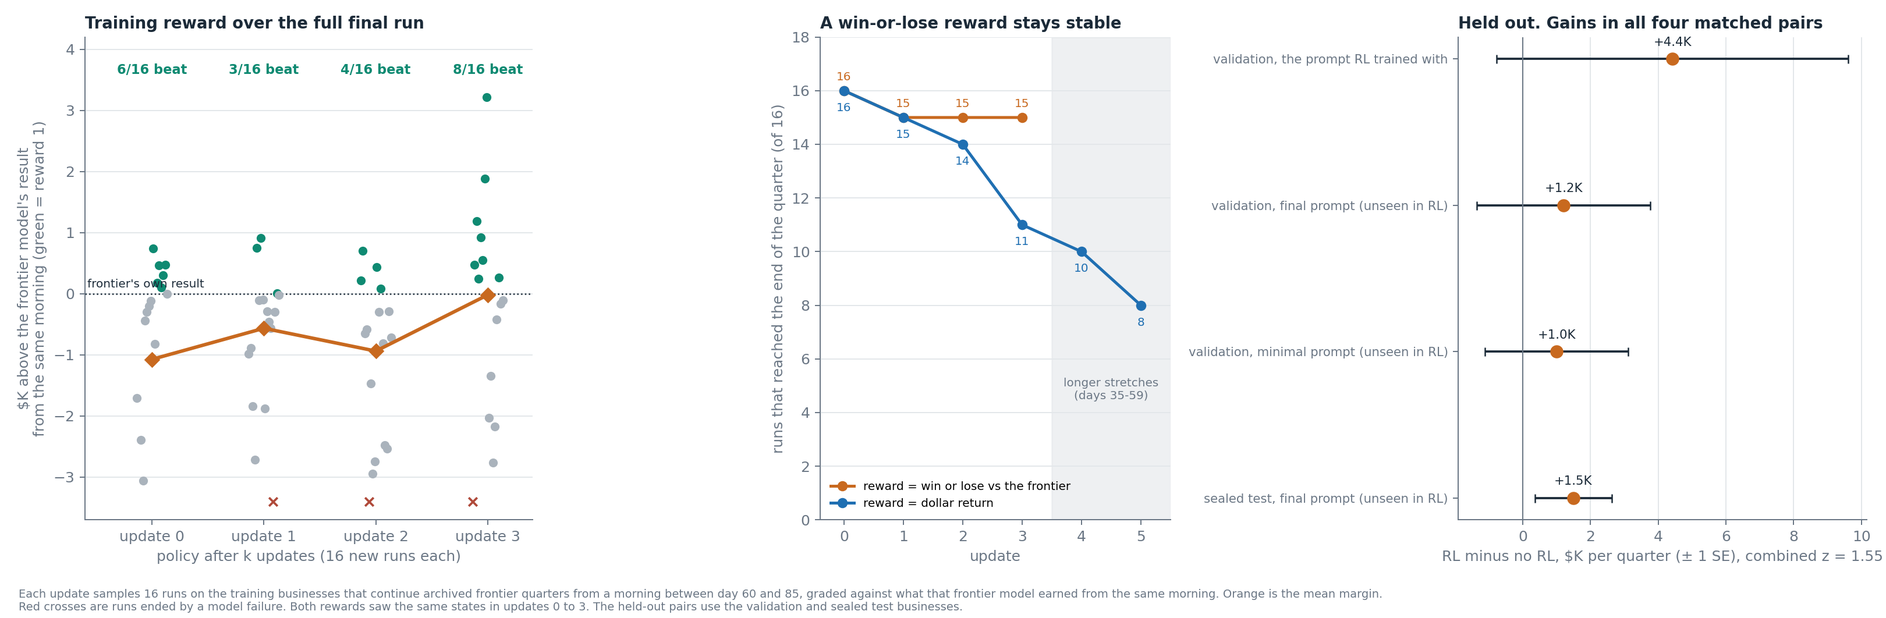
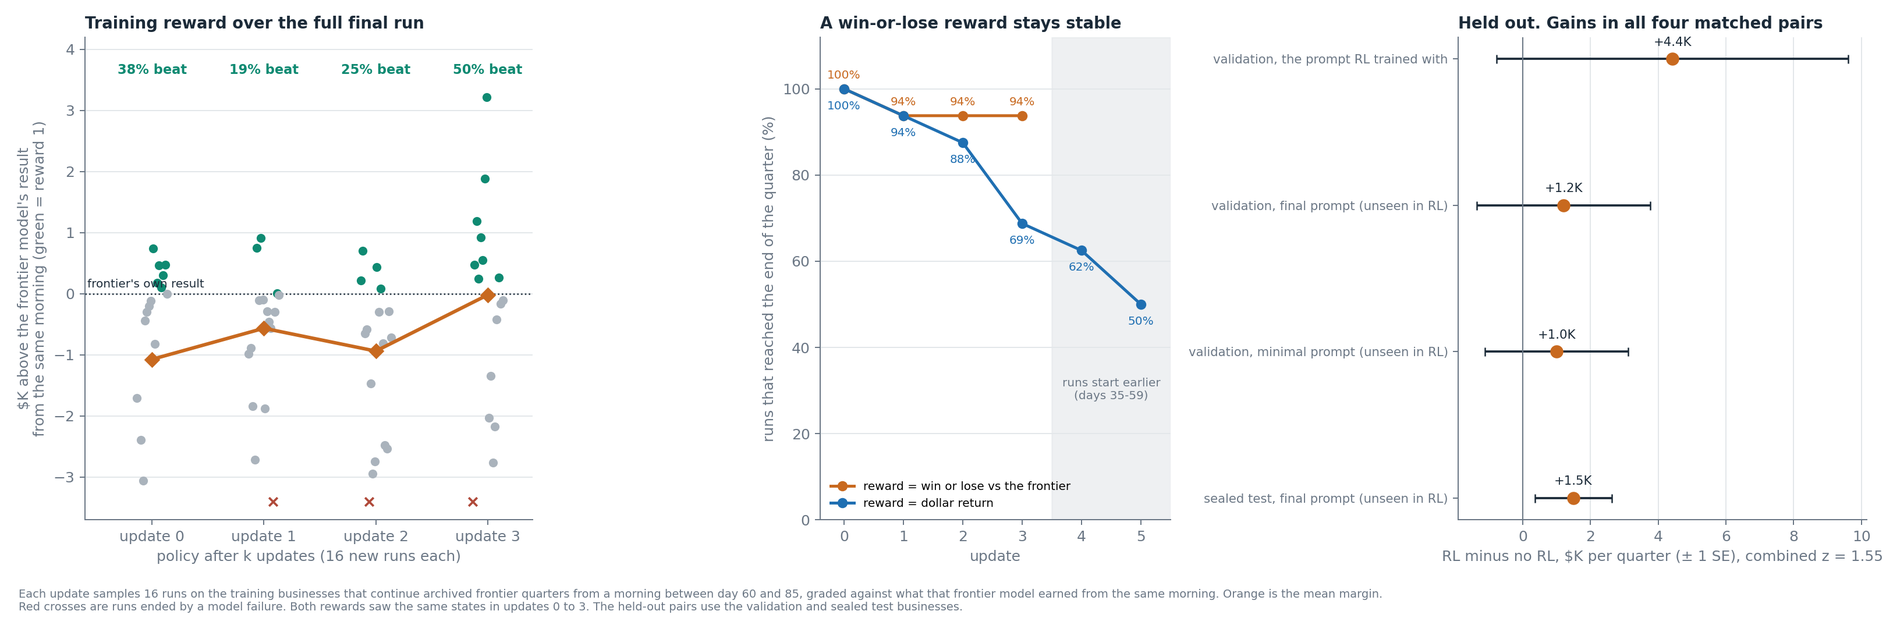
Rewrite the training report around findings, report percentages
The report now opens with a TL;DR of extrapolated findings and the research
question, gives each section a finding as its heading with verbatim quotes
from the final policy, and states shares as percentages. Figures switch to
percentage labels to match.

diff --git a/scripts/story_figures.py b/scripts/story_figures.py
@@ -272,9 +272,9 @@ def fig_result(test, val, lb_test, rule_test, lb_val, rule_val, open_w, dump):
     v_rows = {**lb_val, RL_ARM: val[RL_ARM], BASE_ARM: val[BASE_ARM]}
     ahead_t = standings(ax1, t_rows, rule_test, open_w, "")
     ahead_v = standings(ax2, v_rows, rule_val, open_w, "")
-    ax1.set_title(f"Sealed test business. Ahead of {ahead_t} of {len(lb_test)} leaderboard models", loc="left",
+    ax1.set_title(f"Sealed test business. Ahead of {100 * ahead_t / len(lb_test):.0f}% of leaderboard models", loc="left",
                   fontsize=11, color=INK, fontweight="bold")
-    ax2.set_title(f"Validation business. Ahead of {ahead_v} of {len(lb_val)}", loc="left", fontsize=11, color=INK,
+    ax2.set_title(f"Validation business. Ahead of {100 * ahead_v / len(lb_val):.0f}%", loc="left", fontsize=11, color=INK,
                   fontweight="bold")
     dump["test_rank"] = {"ahead_of": ahead_t, "of": len(lb_test), "fixed_rule": rule_test["primary"]}
     dump["val_rank"] = {"ahead_of": ahead_v, "of": len(lb_val), "fixed_rule": rule_val["primary"]}
@@ -418,7 +418,7 @@ def fig_rl(test, dump):
                 ax.scatter(x, -3.4, s=34, color=BAD, marker="x", zorder=3)
         means.append(st.mean(t["margin_vs_frontier_kusd"] for t in tm if t.get("valid")))
         won = sum(t.get("beat_frontier", 0) for t in tm)
-        ax.text(k, 3.6, f"{won:.0f}/{len(tm)} beat", ha="center", fontsize=9,
+        ax.text(k, 3.6, f"{100 * won / len(tm):.0f}% beat", ha="center", fontsize=9,
                 color=GOOD, fontweight="bold")
         dump["rl_reward"][k] = {"beat": won, "rollouts": len(tm), "mean_margin_kusd": means[-1],
                                 "valid": sum(t.get("valid", 0) for t in tm)}
@@ -427,25 +427,26 @@ def fig_rl(test, dump):
     ax.text(-0.58, 0.1, "frontier's own result", fontsize=8, color=INK)
     ax.set_xlim(-0.6, 3.4)
     ax.set_ylim(-3.7, 4.2)
-    ax.set_xticks(range(len(means)), [f"update {k}" for k in range(len(means))])
+    ax.set_xticks(range(len(means)), [f"update {k}" for k in range(len(means))])  # 16 new runs per update
     style(ax, "Training reward over the full final run", "policy after k updates (16 new runs each)",
           "$K above the frontier model's result\nfrom the same morning (green = reward 1)")
 
     # (b) the same states under a dollar reward
     ax = axes[1]
     for (lab, run), color in zip(CFG["rl_runs"], (OURS, BASE)):
-        done = [sum(r["trajectory_metrics"].get("valid", 0) for r in rows) for rows in rollout_summaries(run)]
+        done = [100 * sum(r["trajectory_metrics"].get("valid", 0) for r in rows) / len(rows)
+                for rows in rollout_summaries(run)]
         ax.plot(range(len(done)), done, marker="o", color=color, lw=2, label=f"reward = {lab}")
         for x, v in zip(range(len(done)), done):
-            ax.annotate(f"{v:.0f}", (x, v), textcoords="offset points", xytext=(0, 7 if color == OURS else -14),
+            ax.annotate(f"{v:.0f}%", (x, v), textcoords="offset points", xytext=(0, 7 if color == OURS else -14),
                         ha="center", fontsize=8, color=color)
         dump["rl_completed"][lab] = done
     ax.axvspan(3.5, 5.5, color=GRID, alpha=0.6, zorder=0)
-    ax.text(4.5, 4.5, "longer stretches\n(days 35-59)", ha="center", fontsize=8, color=MUTED)
-    ax.set_ylim(0, 18)
+    ax.text(4.5, 28, "runs start earlier\n(days 35-59)", ha="center", fontsize=8, color=MUTED)
+    ax.set_ylim(0, 112)
     ax.set_xlim(-0.4, 5.5)
     ax.legend(frameon=False, fontsize=8, loc="lower left")
-    style(ax, "A win-or-lose reward stays stable", "update", "runs that reached the end of the quarter (of 16)")
+    style(ax, "A win-or-lose reward stays stable", "update", "runs that reached the end of the quarter (%)")
 
     # (c) held-out gains
     ax = axes[2]

diff --git a/docs/training_report.md b/docs/training_report.md
@@ -1,98 +1,106 @@
-# Teaching an open 27B model to run a produce buying desk
+# Teaching an open model to run a business function
 
-SMB Bench training report, November 2026
+Learning from delayed consequences in SMB Bench
 
-The question behind this work is what experience and learning signal make an agent better at noticing, attributing and acting on the delayed consequences of its own decisions, in businesses it has never seen. SMB Bench tests this on a wholesaler's produce buying desk run for a 90-day quarter, where the cost of a decision often arrives weeks later and unlabelled.
+Running a business comes down to committing cash before demand is known and finding out weeks later whether the commitment was right. SMB Bench measures this on a wholesaler's produce buying desk run for a 90-day quarter, where sales hide the demand a stockout turned away and a shorted customer quietly orders less weeks later. We post-trained an open 27-billion-parameter model inside the original simulator and tested it on a business it never saw. It now sits in the middle of the frontier, and its transcripts show which parts of the frontier's failures a policy can fix and which still need learning.
 
-## Result
+Training report, November 2026
 
-Qwen3.8-27B, an open-weight model trained inside the original SMB Bench simulator, finishes ahead of 8 of the 16 models on the current leaderboard on a business it never saw during training or model selection. They include both open-weight models (DeepSeek V4.1 Flash and GLM 5.3), Grok 4.7, GPT-6 Luna, Claude Haiku 5.5 and all three Muse models. Its margin over Grok, GLM, GPT-6 Luna, Muse Wonder and Claude Haiku is $2,300 to $3,300 a quarter, about two standard errors or more. Its lead over Muse Spark, Muse Ember and DeepSeek is within noise, and the six models at the top lead it by more than two standard errors. On the validation business it is ahead of 9 of the 16. Every policy earns less on the sealed business than on validation (GPT-6 Astra makes $17,300 a quarter on one and $2,000 on the other), and ours sits in the middle of the board on both.
+## TL;DR
 
-The starting model, Qwen3.6-35B, lost $29,000 a quarter on validation. The final policy makes $2,400 there. Four reinforcement learning updates, about $600 of compute, added $1,500 a quarter on the sealed business, with a standard error of $1,100, and pointed the same way on validation.
+- **An open 27B model can learn a whole business function well enough to sit in the middle of the frontier.** On a sealed business, Qwen3.8-27B with our training finishes ahead of 50% of the 16 models on the current SMB Bench leaderboard, including both open-weight models (DeepSeek V4.1 Flash and GLM 5.3), Grok 4.7, GPT-6 Luna, Claude Haiku 5.5 and all three Muse models. On validation it is ahead of 56%, up from a $29,000 loss per quarter for the model we started from. The policy runs every product, supplier, order size, timing and cover decision for 90 days and carries what it learned to a business it has not seen. The skill is learnable at this scale from simulator experience, written practice and a few reinforcement learning updates.
+- **The frontier's named failures behave like policy failures, not knowledge failures.** The SMB Bench report found that frontier models under-buy, notice stockouts without acting, and short their customers. The trained policy buys the most produce of any policy we can measure, raises its next order after a stockout three times as much as GPT-6 Astra, and protects every customer account from the first morning in 100% of its quarters, against 10% of frontier quarters. It handles the delayed consequence by preventing it rather than detecting it, and gives up less profit than any leaderboard model when customers pull back or a supplier fails. A standing policy that is stated, carried and reinforced does what in-context adaptation rarely does.
+- **A win-or-lose signal against the frontier's own result is a usable learning signal, and the remaining gap is a timing problem.** Rewarding a run only for beating the frontier model's realized profit from the same morning stayed stable where a dollar reward drifted, and four updates (about $600 of compute) added $1,500 a quarter on the sealed business. What is left is a buffer and supplier habit whose value builds over the whole quarter. The policy describes the risk in its own notes and keeps the habit. We anticipate that reinforcement learning from earlier in the quarter, where those habits are set, should close much of the remaining $6,500 gap to GPT-6 Astra.
+
+## The question
+
+What experience and learning signal make an agent better at noticing, attributing and acting on the delayed consequences of its own decisions, in businesses it has never seen?
+
+Our hypothesis is that agents can learn this from verified experience in a simulator where every consequence is recorded. What should transfer is the relationship between evidence and action, which signal matters, what it implies for the next order, and when a standing commitment is worth its cost. A first attempt trained one skill, stockout-aware replenishment, as single ordering decisions scored against the benchmark's fixed buying rule. The decision reward kept rising while whole-quarter profit fell, and the gains stayed on the business they were trained on. Narrow decisions did not add up to a better buyer, so this work trains the whole desk and grades the whole quarter.
+
+## The trained policy sits in the middle of the frontier on an unseen business
+
+The sealed business is one of the leaderboard's six, played as a normal quarter, a customer quarter where shorted accounts order less, and a supplier quarter where the cheapest supplier also starts arriving late and short. The trained policy loses $4,500 a quarter there, a hard business where the benchmark's fixed buying rule breaks even and only three leaderboard models make money. Its margin over Grok, GLM, GPT-6 Luna, Muse Wonder and Claude Haiku is $2,300 to $3,300 a quarter, about two standard errors or more. Its lead over Muse Spark, Muse Ember and DeepSeek is within noise, and the six models at the top lead it by more than two standard errors. Every policy earns less here than on validation (GPT-6 Astra makes $17,300 a quarter on one and $2,000 on the other), and the trained policy sits in the middle of the board on both.
 
 ![Result](figures/fig1_result.png)
 
-## Findings from the final policy
+## It prevents the delayed consequence instead of detecting it
 
-The SMB Bench report found that frontier models under-buy, notice stockouts without acting on them, and short their restaurant and catering accounts. The final policy does the opposite on all three. We measured its test quarters and the nine frontier models we replayed on the same business with one script, and mined all 16,699 of its responses across 24 validation and test quarters. Quotes are the policy's own words, verbatim.
+A shorted restaurant or catering account keeps ordering, but less, and the loss shows up weeks later. The SMB Bench report describes learning from this as a three-step chain, seeing the orders fall, tying the fall to your own shortfalls and switching on shortfall cover, a standing instruction to fill any shortfall from the local market. Only 4% of leaderboard runs where accounts react completed that chain within three days.
 
-| SMB Bench report finding | Nine replayed frontier models, test business | Final policy |
-|---|---|---|
-| Every model under-buys | 12 to 22 tonnes a quarter, purchases cover 81% of true demand on average | 22.1 tonnes, covers 89% |
-| Models notice stockouts and barely act | next order after a four-hour stockout 6% above average for GPT-6 Astra | 18% above average |
-| Few protect their accounts in time | every account covered on day zero in 8 of 80 quarters | 24 of 24 quarters |
-| Changed quarters cost profit | all 16 leaderboard models lose $2,800 to $13,300 against their normal quarter | loses $1,400 |
-| The expert stocks for lead time plus a buffer | only Claude Fable 5.1 holds more than its lead time | holds 0.9 days against a 1.3-day lead time |
-| The expert consolidates on one supplier | 1.2 to 3.0 suppliers | 3.8 suppliers |
+The trained policy never lets the chain start. In 100% of its 24 validation and test quarters it switched on cover for every account on the first morning and kept 99.8% of account products covered to the end, against 56% of quarters for GPT-6 Astra and 10% for the frontier as a whole. Its notes name the delayed costs it is insuring against.
 
-**It infers the demand a stockout hides, then acts on it.** A sold-out shelf records lost sales as nothing. On 86 percent of test mornings the policy corrects for this before it orders.
-
-> "Let me estimate true demand from the sales data (d13, d14, with OOS correction)"
-
-After a four-hour stockout its next order is 18 percent above that product's average, three times GPT-6 Astra's 6 percent. After a week out of stock a quarter of the time or more, it adds 0.23 days of stock the next week, level with Astra and GLM 5.3 and behind only Claude Fable 5.1 on our measure. Its notes turn the estimate into a morning routine, and 83 percent of its final notebooks hold explicit checks, against 22 percent for Astra.
-
-> "2. New account lines due today/tomorrow -> size gaps vs on-hand + incoming."
-
-**It buys enough.** The report found every model bought 5 to 42 percent less than the fixed buying rule. The policy received 20.6 tonnes from suppliers and 1.5 tonnes from the local market per quarter, the most of the eleven policies we can measure on the test business, and its purchases covered 89 percent of true demand, the same as GPT-6 Astra. Its walk-in fill is still 74 percent against Astra's 80, a gap the thin buffer below explains.
-
-**It protects every account before the consequence appears.** Shorted accounts quietly order less weeks later. Of the 323 leaderboard runs in which this happens, the report found 12 that saw the fall, tied it to their own shortfalls and fixed it within three days. The policy never lets the chain start. In all 24 quarters it set shortfall cover, a standing instruction to fill any account shortfall from the local market, for every account on the first morning, and kept 99.8 percent of account products covered to the end. Its notes state the delayed consequence it is buying protection against, the 5 percent compensation, the accounts' smaller future orders and the end-of-quarter reserve, and weigh them against the local premium.
-
+> **Final policy, notes in a normal quarter**
 > "Keep ON; never toggle (comp + future order shrink + closing reserve >> local premium)."
 
-It still prices individual lines, and lets cover fill one when that loses less than buying would.
+> **Final policy, day 0 of a supplier quarter**
+> "Given cover is set for all accounts, even if potatoes fall short, cover would backstop (local potato price 97 vs account 77 → cover loses 20/lb, cheap!)."
 
-> "Skip gb (cover absorbs at 720, loss $24 vs buying loss ~$47)."
+The rule came from the training businesses and reached the policy as written instruction, and the policy applied it on two businesses it never saw. In the customer quarter its accounts kept ordering their full 15 tonnes, against 11.6 tonnes for the four strongest frontier models we replayed.
 
-GPT-6 Astra covered every account on day zero in 5 of 9 test quarters, and the nine replayed frontier models in 8 of 80. In the customer quarter the policy's accounts kept ordering their full 15 tonnes, against 11.6 tonnes for the four strongest replayed frontier models.
+## It reads the demand a stockout hides, and acts on it
 
-**It holds profit when customers or suppliers turn.** Against its own normal quarter it loses $1,400 on average across the customer and supplier quarters, the smallest loss of all 18 policies on the test business. GPT-6 Astra loses $4,900. Part of this is a low starting point, because always-on cover buys at the local market even when nothing goes wrong, and its normal quarter is weaker than every leaderboard model's. In absolute profit it is ahead of 11 of the 16 in the customer quarter and 9 of the 16 in the supplier quarter.
+A sold-out shelf records lost sales as nothing. On 86% of test mornings the policy corrects for this before it orders, and its notes turn the estimate into a routine.
 
-**Where it falls short, it notices and does not act.** The report's expert buyer stocks for the delivery lead time plus a buffer and consolidates orders on one supplier. The policy holds 0.9 days of stock against a 1.3-day lead time and splits orders over 3.8 suppliers, against 2.9 for Astra. So a late truck, or a day with none due, leaves an account order for cover to fill at the local market, at about 2.5 times the cheapest supplier quote. It buys there on 72 of 90 days and treats the cost as the price of loyalty.
+> **Final policy, day 15 of a customer quarter**
+> "Let me estimate true demand from the sales data (d13, d14, with OOS correction)"
 
+> **Final policy, notes in a supplier quarter**
+> "2. New account lines due today/tomorrow -> size gaps vs on-hand + incoming."
+
+After a four-hour stockout its next order is 18% above that product's average, against 6% for GPT-6 Astra. It received 22.1 tonnes a quarter, the most of the eleven policies we can measure on the sealed business, and its purchases covered 89% of true demand, the same as Astra and above the 81% frontier average. Where the report found frontier models noticing without acting, the policy acts.
+
+## It holds profit when customers or suppliers turn
+
+Against its own normal quarter, the policy loses $1,400 on average across the customer and supplier quarters, the smallest loss of all 18 policies on the sealed business. GPT-6 Astra loses $4,900. In absolute profit it is ahead of 69% of the leaderboard in the customer quarter and 56% in the supplier quarter. Part of the small loss is a low starting point. Always-on cover buys at the local market even when nothing goes wrong, so its normal quarter is weaker than any leaderboard model's. Insurance that costs money in a calm quarter pays when the world turns.
+
+## Its remaining gap is a habit it can describe but does not change
+
+The report's expert buyer stocks for the delivery lead time plus a buffer and consolidates orders on one supplier. The policy holds 0.9 days of stock against a 1.3-day lead time and splits orders over 3.8 suppliers, against 2.9 for GPT-6 Astra. So a late truck, or a day with none due, leaves an account order for cover to fill at the local market at about 2.5 times the cheapest supplier quote. It buys there on 80% of days and accepts the cost knowingly.
+
+> **Final policy, day 70 of a normal quarter**
 > "asp 1 is enough; let the cover handle asp line gaps (accept the premium, protect the account)."
 
-> "Local cover for these >> shelf -> expected ~$100-250/d cover losses; accept."
+In the supplier quarter it records the cheapest supplier's cancellations, then raises that supplier's share of its orders from 67% to 75% while the four strongest replayed frontier models cut theirs from 83% to 77%.
 
-In the supplier quarter it records the cheapest supplier's cancellations in its notes and keeps leaning on it, raising that supplier's share of its orders from 67 to 75 percent while the four strongest replayed frontier models cut theirs from 83 to 77 percent.
-
+> **Final policy, notes in a supplier quarter**
 > "sup_c d+1 NET21 (15-20% pre-cancel/case), sup_d d+2 NET7 reliable"
 
-These two habits cost it $7,700 a quarter at the local market and $1,100 in freight against GPT-6 Astra, more than its whole $6,500 gap to Astra, which its higher sales partly offset. The gap is widest in the normal quarter.
+> **Final policy, day 81 of the same quarter**
+> "Candidate sup_c (d82 arrival, cheap, but 1-day late risk + 15-20% cancellation)"
+
+These two habits cost $7,700 a quarter at the local market and $1,100 in freight against GPT-6 Astra, more than the whole $6,500 gap, which higher sales partly offset. This is the report's gap between noticing and acting, moved from stockouts to suppliers.
 
 ![Behaviors](figures/fig2_behaviors.png)
 
-## Method
+## A win-or-lose reward against the frontier is stable and transfers
 
-**Environment.** We used the original SMB Bench simulator and grader with the benchmark's tools, information and limits. Each morning the policy can query the business's records, read supplier quotes, place orders, set shortfall cover and edit its notes, which are all it carries to the next morning. Every business is played as a normal quarter, a customer quarter where shorted accounts order less, and a supplier quarter where the cheapest supplier also starts arriving late and short. We trained on four of the leaderboard's six businesses, chose between policies on business 5, and kept business 6 sealed until the final evaluation.
-
-**Task.** The policy runs the whole desk, every product, supplier, order size, timing and cover decision for 90 days, and is graded on the quarter's profit. An earlier attempt trained one skill, stockout-aware replenishment, as single decisions scored against the fixed buying rule. The decision reward kept rising while whole-quarter profit fell after the first 64 updates, and a model tuned on one business lost ground on the others. Narrow decisions did not add up to a better buyer.
-
-**Experience.** The useful unit of experience was a frontier state, not a frontier transcript. Fine-tuning Qwen3.6-35B on the 44 most profitable frontier transcripts from the training businesses, 179 million tokens, broke its tool calls. Restarted from frontier states at day 60, 71 percent of its runs ended on a malformed tool call and none beat the frontier. Instead we replay an archived frontier quarter to an exact morning between day 60 and 85, let the policy finish the quarter, and compare its profit with what that frontier model earned from the same morning. Because the engine is deterministic, every example carries its own fair bar.
-
-**Learning signal.** The reward is a single bit, 1 when the run beats the frontier model's result from the same morning. On the same states a reward in dollars drifted. Its responses grew from 3,800 to 7,100 tokens and the runs that reached the end of the quarter fell from 16 to 8 of 16. Under the win-or-lose reward, 15 or 16 of 16 runs finished at every update, the share that beat the frontier went from 6 of 16 at the first update to 8 of 16 at the last, and the mean margin against the frontier rose from minus $1,100 to even. Each update draws new states, so the training curve is noisy and the held-out comparisons carry the evidence. RL raised profit in all four matched comparisons, by $1,000 to $4,400 a quarter, including on the sealed business and under prompts it was not trained with (combined one-sided p of about 0.06, a rough guide because three of the comparisons share the validation business).
+Each training example replays an archived frontier quarter to an exact morning between day 60 and day 85, lets the policy finish the quarter, and compares its profit with what that frontier model earned from the same morning. The engine is deterministic, so every example carries its own fair bar, and the reward is a single bit for beating it. On the same states, a reward in dollars drifted. Responses grew from 3,800 to 7,100 tokens and the share of runs that reached the end of the quarter fell from 100% to 50%. Under the win-or-lose reward 94 to 100% of runs finished at every update, the share beating the frontier went from 38% to 50%, and the mean margin against the frontier rose from minus $1,100 to even. Each update draws new states, so the training curve is noisy. The held-out comparisons carry the evidence, and RL raised profit in all four of them, by $1,000 to $4,400 a quarter, including on the sealed business and under prompts it was not trained with.
 
 ![Reward over the full final RL run](figures/fig3_rl.png)
 
-**Optimizer and model.** The policy is Qwen3.8-27B with a rank-32 LoRA adapter, trained on Tinker, Thinking Machines' hosted training service. Each of the four updates used four start states with four runs each, a learning rate of 3e-5, the CISPO loss, and MaxRL advantages, which divide each group's centered win-or-lose reward by the group's win rate. Evaluation runs with thinking on, temperature 1, top-p 0.95, top-k 20 and a reasoning cap of 57,344 tokens. The backbone mattered most. From identical frontier states, Qwen3.8-27B earned $1,200 to $2,100 more per run than Qwen3.6-35B.
+## What came from the base model, the environment and the weights
 
-**System prompt.** The final prompt keeps the benchmark's task, tools and scoring and adds three kinds of guidance. It describes the practices the report attributes to its expert buyer, states run-safety rules (a cap on calls per response, the run-ending limits, a check on lot size), and adds two rules read off the training businesses' records. Keep cover on for every account from day zero, and size each order to what sells before markdown. Cover is not optional. Making it conditional, to cut the local-market spending, brought account shortfalls back from 8 kg to 456 kg and cost $5,700 a quarter on validation.
+The validation climb of $31,400 a quarter splits by source. Moving from Qwen3.6-35B to Qwen3.8-27B is worth $20,400. Written practice from the SMB Bench report and run-safety rules add $7,600. Two rules read off the training businesses' records add $2,200. Reinforcement learning in the simulator adds $1,200 on validation and $1,500 on the sealed business. Each step was measured on top of the one before.
 
-## What came from where
+**The environment holds rules that transfer.** The two rules we read off the training businesses, cover every account from day zero and size each order to what sells before markdown, produced the account protection and lot sizing that frontier models get wrong, on two businesses the policy never saw. They reached the policy as written instructions. The signal is in the environment, and whether an agent can extract it unaided is the open part of the question.
 
-Figure 4 splits the $31,400 validation climb by source. Moving from Qwen3.6-35B to Qwen3.8-27B is worth $20,400. The report's practices and the run-safety rules add $7,600. The two rules read off the training businesses add $2,200. Reinforcement learning in the simulator adds $1,200 on validation and $1,500 on the sealed business. Each step was measured on top of the one before, so the split depends on that order.
+**The weights learned to commit.** Against the same model and prompt without reinforcement learning, on the sealed business, the trained policy bought more from suppliers and $1,600 less at the local market, filled 74% of walk-in demand against 70%, almost never switched cover off, and covered every account on day zero in 100% of quarters against 83%. It reacted harder to stockout weeks on both businesses, and quarters lost by more than $10,000 fell from 25% to 8%. It did not change the buffer or the number of suppliers. Four late-quarter updates made the policy hold its plan. They did not teach it a habit whose payoff starts in the first weeks.
 
-**What the environment taught.** The simulator's training businesses hold rules that transfer. We read two of them off the records of archived frontier runs, wrote them into the prompt, and they produced the account protection and lot sizing that frontier models get wrong, on two businesses the policy never saw. The rules reached the policy as written instructions, so this shows the signal is in the environment. Whether an agent can extract it unaided is the open part of the question.
-
-**What training put in the weights.** Against the same model and prompt without reinforcement learning, on the sealed business, RL made the policy commit to its plan. It bought 0.8 tonnes more from suppliers and $1,600 less at the local market, filled 74 percent of walk-in demand against 70, ended the quarter with more stock on hand, almost never switched cover off, and covered every account on day zero in 12 of 12 quarters against 10 of 12. It reacted harder to stockout weeks on both businesses (combined one-sided p of about 0.07). It turned three disaster quarters below a $10,000 loss into one, and on validation its whole lead comes from one quarter the untrained model ended early after ten rejected orders in a row. It did not change tool errors, tokens, the stock buffer or the number of suppliers.
-
-**What this says about learnability.** The environment gives a usable learning signal. A win-or-lose reward, scored against archived frontier runs from the same morning, moved the weights in four updates, and the change held on a business the policy never saw and under prompts it was not trained with. The behaviors the policy carries across businesses reverse two of the report's named frontier failures and match the best frontier models on the third. Written instructions introduced them, and reinforcement learning made the policy hold them more consistently. Learning a delayed-consequence habit from the reward alone is not yet shown, because updates that start at day 60 cannot see consequences that build from the first weeks of a quarter. The remaining gap says where to look next. Claude Fable 5.1, the only replayed frontier model that stocks above its lead time, buys almost nothing at the local market. A numeric buffer rule drawn from training-business data, and reinforcement learning from days 10 to 59, when a quarter's buying pattern and stock levels are set, are the next tests.
+**Imitation broke the tools, and the backbone mattered most.** Fine-tuning Qwen3.6-35B on the 44 most profitable frontier transcripts ended 71% of its runs on a malformed tool call, and none beat the frontier. From identical frontier states, Qwen3.8-27B earned $1,200 to $2,100 more per run than Qwen3.6-35B without any training. The useful unit of experience was a frontier state to continue from, not a frontier transcript to copy.
 
 ![Levers and attribution](figures/fig4_levers.png)
 
+## What comes next
+
+The findings point to two experiments. A numeric buffer rule read off the training businesses should cut the local-market buying that makes up most of the gap to GPT-6 Astra, since Claude Fable 5.1, the only replayed frontier model that stocks above its lead time, buys almost nothing there. Reinforcement learning from days 10 to 59, when a quarter's buying pattern and stock levels are set, tests whether the reward alone can teach a delayed-consequence habit. Our broader hypothesis is that these judgments, when to insure, when to buffer, when to leave a supplier, can be learned from experience in one set of businesses and carried to the next.
+
+## Method
+
+The policy is Qwen3.8-27B with a rank-32 LoRA adapter, trained on Tinker, Thinking Machines' hosted training service, in the original SMB Bench simulator and grader with the benchmark's tools, information and limits. Each morning it can query the business's records, read supplier quotes, place orders, set shortfall cover and edit its notes, which are all it carries to the next morning. We trained on four of the leaderboard's six businesses, used business 5 to choose between policies and to spot failures we then checked in the training businesses' records, and kept business 6 sealed until the final evaluation. Each of four updates used four start states with four runs each, a learning rate of 3e-5, the CISPO loss and MaxRL advantages, which divide each group's centered win-or-lose reward by the group's win rate. The final prompt keeps the benchmark's task, tools and scoring and adds the report's expert practices, run-safety rules and the two rules from the training businesses. Evaluation runs four quarters of each type with thinking on, temperature 1, top-p 0.95, top-k 20 and a reasoning cap of 57,344 tokens. The campaign used about $6,500 of compute at list price.
+
 ## Limits
 
-Validation and test are one business each, and 12 test quarters per policy resolve about $2,300 between two policies. The leaderboard models ran the benchmark's own prompt and ours ran the prompt above, with the same tools, information, limits and grader. We did not rerun frontier models with our prompt, so part of our margin is instructions, $9,800 of the validation climb in Figure 4. We trained on four of the six leaderboard businesses and report no 18-task average. Frontier numbers are the leaderboard's own scored runs on businesses 5 and 6, and our replays of nine of those models reproduce them to the cent. Our pre-registered selection rule picked the untrained model on a validation near-tie. Both ran on the sealed business as a declared matched pair, and the untrained one is ahead of 5 of the 16. The RL updates ran under an earlier draft of the prompt, and every evaluation uses the final prompt. Qwen's reference parser accepted four tool calls in 3 of the 12 test quarters that our stricter training parser would have rejected, a run of ours that ends early scores a $25,000 loss where the leaderboard drops failed runs, and the reasoning cap fired once in the 12 test quarters.
+Validation and test are one business each, and 12 test quarters per policy resolve about $2,300 between two policies. The leaderboard models ran the benchmark's own prompt, and we did not rerun them with ours, so part of the margin is instructions, $9,800 of the validation climb. We trained on four of the six leaderboard businesses and report no 18-task average. Frontier numbers are the leaderboard's own scored runs, and our replays of nine of those models reproduce them to the cent. Our pre-registered selection rule picked the untrained model on a validation near-tie. Both ran on the sealed business as a declared matched pair, and the untrained one is ahead of 31% of the leaderboard. The RL updates ran under an earlier draft of the prompt, and every evaluation uses the final one. Qwen's reference parser accepted calls in 25% of test quarters that our stricter training parser would have rejected, a run of ours that ends early scores a $25,000 loss where the leaderboard drops failed runs, and the reasoning cap fired in 8% of test quarters.
 
-## Code and model
-
-This repository holds the harness, training and evaluation code, the final prompt (`prompts/buyer_system.txt`), the leaderboard snapshot and the figure scripts. `scripts/story_figures.py` regenerates every figure from the run records and `data/leaderboard-runs-b5-b6.json`, and `docs/evidence/` holds the transcript measures. The trained adapter is stored on Tinker. `scripts/export_model.py` exports it as a PEFT adapter and a merged Hugging Face model, and runs once a billing block on our Tinker account lifts.
+This repository holds the harness, training and evaluation code, the final prompt, the leaderboard snapshot, the figure scripts and the transcript evidence. The trained adapter is stored on Tinker, and `scripts/export_model.py` exports it as a PEFT adapter and a merged Hugging Face model once a billing block on our Tinker account lifts.
